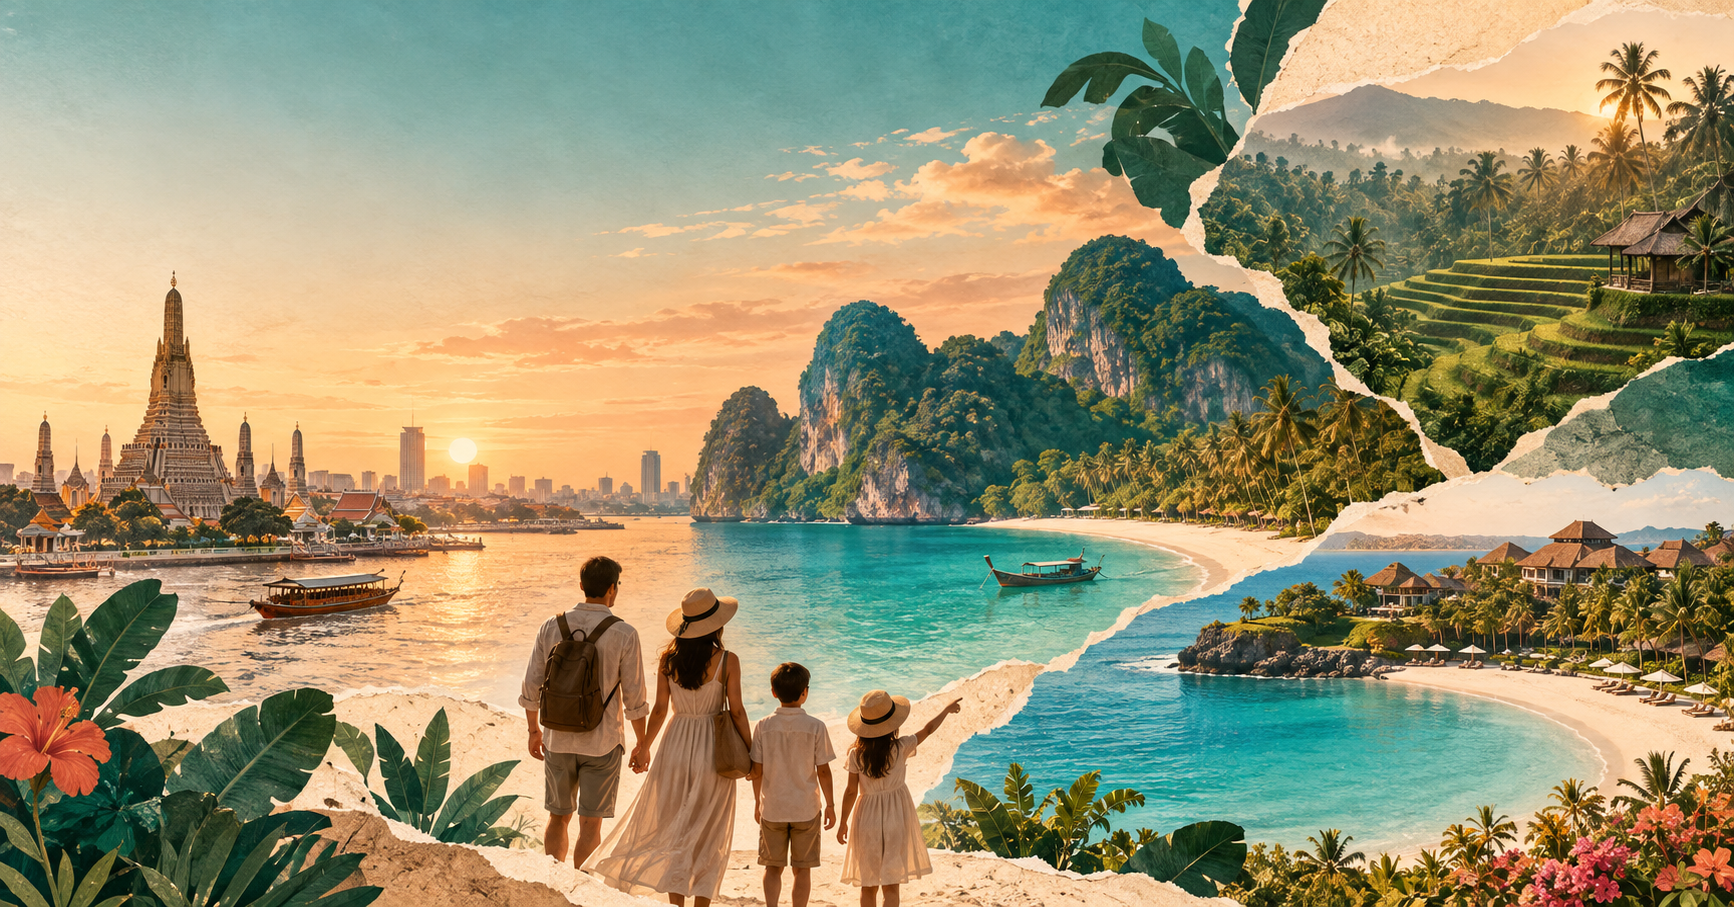
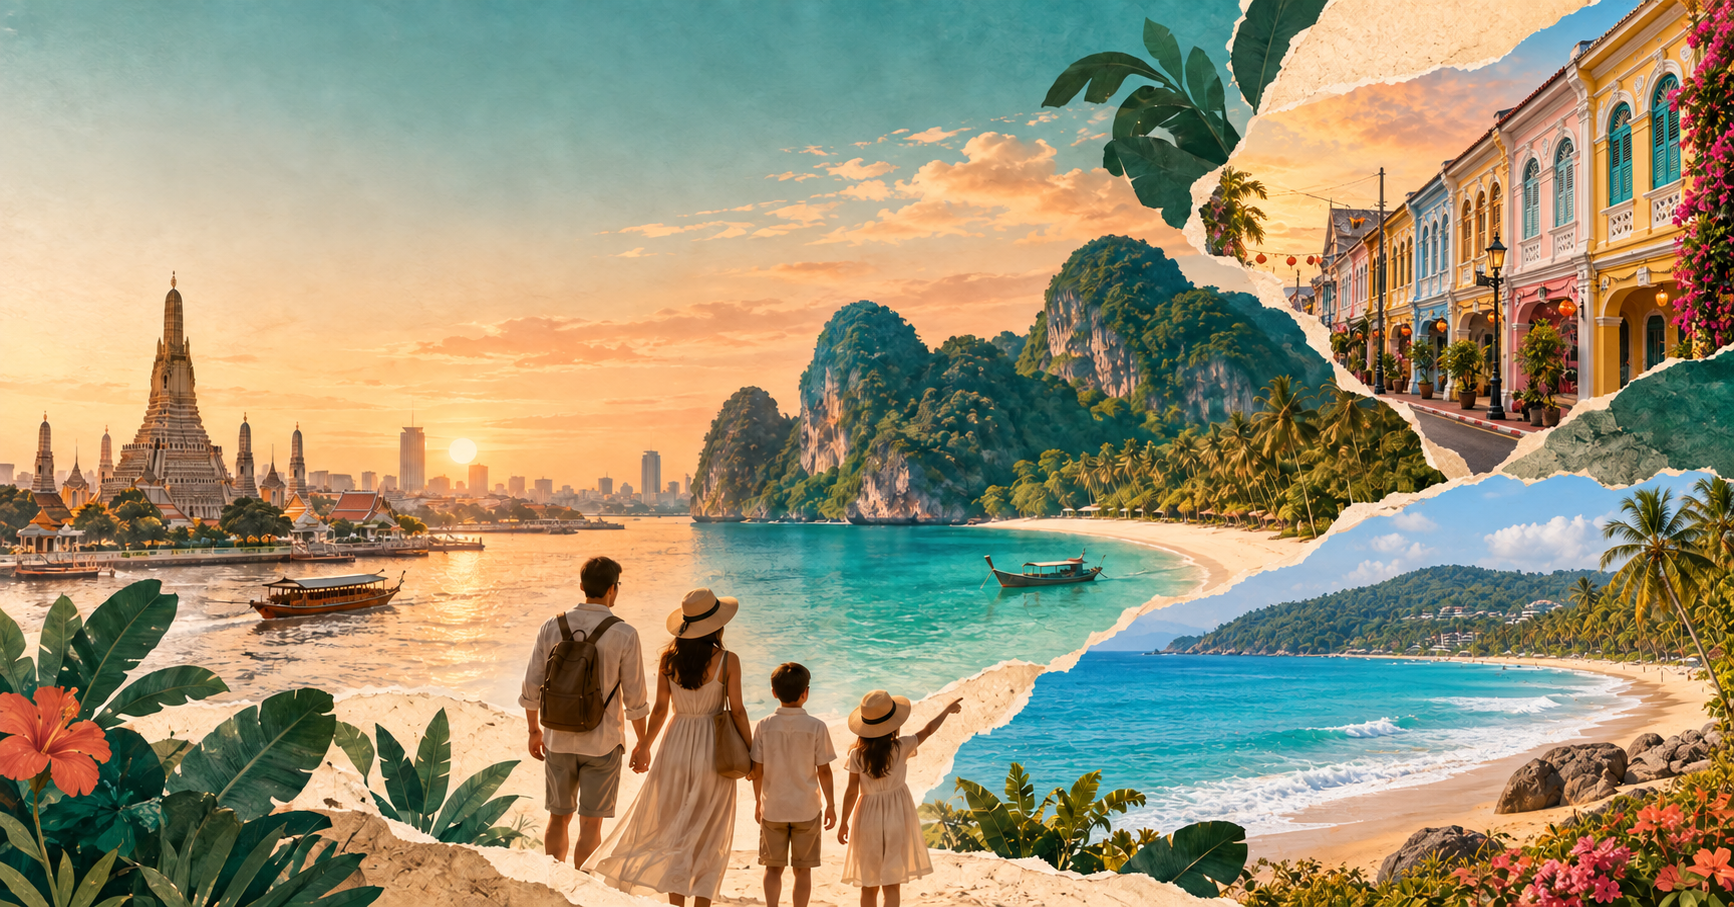
固定曼谷普吉方案并删除备选

diff --git a/site/app/page.tsx b/site/app/page.tsx
@@ -12,7 +12,7 @@ type DayPlan = {
 };
 
 type Candidate = {
-  id: "phuket" | "bali";
+  id: "phuket";
   label: string;
   eyebrow: string;
   title: string;
@@ -34,7 +34,7 @@ const initialData: SiteData = {
   candidates: [
     {
       id: "phuket",
-      label: "候选 A",
+      label: "固定方案",
       eyebrow: "THAILAND · CITY + ISLAND",
       title: "曼谷 × 普吉本岛",
       subtitle: "用曼谷满足美食、夜市与城市体验，用普吉完成海滩、SPA与度假酒店。",
@@ -86,59 +86,6 @@ const initialData: SiteData = {
         ] },
       ],
     },
-    {
-      id: "bali",
-      label: "候选 B",
-      eyebrow: "BALI · CULTURE + RESORT",
-      title: "乌布 × 努沙杜瓦",
-      subtitle: "乌布承载自然、人文与SPA，努沙杜瓦提供安静海滩和高质量酒店休闲。",
-      accent: "#2f8f83",
-      weather: "10月通常仍在旱季尾声，路线不依赖离岛快艇",
-      route: ["北京", "乌布", "努沙杜瓦", "上海"],
-      strengths: ["自然、人文、海边结构均衡", "4人包车便利", "酒店度假价值突出"],
-      risks: ["直飞与到达时间待核", "乌布道路拥堵", "住宿升级可能挤压预算"],
-      days: [
-        { day: 1, date: "10.04", title: "抵达巴厘岛 · 前往乌布", route: "北京 → DPS → 乌布", summary: "航班落地后直接前往乌布，只安排入住与休息。", activities: [
-          { time: "航班待核", type: "交通", title: "北京出发", note: "必须核实实际可售航班、行李与抵达时间。" },
-          { time: "抵达后", type: "包车", title: "DPS机场接机", note: "4人优先Van或合适车型，避免临时议价。" },
-          { time: "晚上", type: "住宿", title: "乌布入住", note: "优先安静、车辆可达，避免只看景观忽略交通。" },
-        ] },
-        { day: 2, date: "10.05", title: "乌布慢生活 · 市场 · SPA", route: "乌布中心", summary: "第一整天保持轻松，适应气候和节奏。", activities: [
-          { time: "10:00", type: "文化", title: "乌布中心与市场", note: "步行区控制暴晒，购物不占整天。" },
-          { time: "下午", type: "SPA", title: "全家SPA", note: "优先接送方便、环境安静的正规门店。" },
-          { time: "晚上", type: "美食", title: "当地特色晚餐", note: "需补确认全家对印尼餐饮的兴趣和忌口。" },
-        ] },
-        { day: 3, date: "10.06", title: "寺庙 · 稻田 · 山林", route: "乌布北部包车", summary: "一天只抓两个核心点，车辆负责连接。", activities: [
-          { time: "09:30", type: "包车", title: "乌布北部出发", note: "避免过早，路线按实时交通优化。" },
-          { time: "上午", type: "自然", title: "梯田或短程自然步道", note: "选择短线、少台阶、可随时折返。" },
-          { time: "下午", type: "文化", title: "代表性寺庙", note: "精选一处，不堆叠相似寺庙。" },
-        ] },
-        { day: 4, date: "10.07", title: "乌布弹性自然日", route: "瀑布 / 村落 / 酒店", summary: "根据前一日体力和天气决定，不预设高强度项目。", activities: [
-          { time: "10:00", type: "弹性", title: "自然或村落半日", note: "瀑布需先核实台阶，不安排高难度徒步。" },
-          { time: "下午", type: "休闲", title: "酒店、泳池或咖啡馆", note: "保留完整休息段。" },
-          { time: "晚上", type: "体验", title: "可选文化表演", note: "根据全家兴趣与返程时间决定。" },
-        ] },
-        { day: 5, date: "10.08", title: "转场努沙杜瓦", route: "乌布 → 努沙杜瓦", summary: "只换一次酒店；转场日不叠加重景点。", activities: [
-          { time: "上午", type: "住宿", title: "从容退房", note: "不安排早起打卡。" },
-          { time: "中午", type: "包车", title: "门到门转场", note: "考虑巴厘岛堵车，按实际路况预留时间。" },
-          { time: "下午", type: "海滩", title: "海边酒店入住与休息", note: "升级住宿要购买真实可用的海滩、泳池和景观。" },
-        ] },
-        { day: 6, date: "10.09", title: "努沙杜瓦 · 纯度假日", route: "酒店与海滩", summary: "把酒店当成正式行程，不安排为了打卡而远距离往返。", activities: [
-          { time: "上午", type: "海滩", title: "海滩与泳池", note: "全家自由安排，不设集合压力。" },
-          { time: "下午", type: "休闲", title: "下午茶 / SPA", note: "可按兴趣分组。" },
-          { time: "晚上", type: "美食", title: "海边晚餐", note: "控制返程距离。" },
-        ] },
-        { day: 7, date: "10.10", title: "南部文化或酒店收尾", route: "努沙杜瓦 → 乌鲁瓦图（可选）", summary: "离岛不是必选；南部陆地路线即可完成文化与海景。", activities: [
-          { time: "10:30", type: "弹性", title: "酒店上午或南部包车", note: "按天气与体力决定。" },
-          { time: "傍晚", type: "文化", title: "乌鲁瓦图 / Kecak（可选）", note: "注意台阶、猴群和晚间返程。" },
-          { time: "晚上", type: "整理", title: "行李与返程核对", note: "购物独立记账，确认送机时间。" },
-        ] },
-        { day: 8, date: "10.11", title: "返程上海 · 当天必须抵达", route: "DPS → 上海", summary: "航班是否能在10月11日当天抵沪，是巴厘岛方案的第一道筛选。", activities: [
-          { time: "按航班", type: "交通", title: "努沙杜瓦送机", note: "考虑机场安检与道路缓冲。" },
-          { time: "硬约束", type: "飞行", title: "10月11日当天抵沪", note: "如无可靠组合，巴厘岛候选自动降级。" },
-        ] },
-      ],
-    },
   ],
   checklist: [
     { id: "international", phase: "第一优先", title: "锁定去程国航CA555", note: "10月4日PEK→BKK，09:15—13:35；官网未税¥460起，2件托运行李档¥690，按4成人登录后确认含税总价与库存。" },
@@ -153,7 +100,7 @@ const initialData: SiteData = {
   ],
 };
 
-const STORAGE_KEY = "national-day-family-trip-v5";
+const STORAGE_KEY = "national-day-family-trip-v6";
 const CHECK_KEY = "national-day-family-trip-checks-v1";
 
 export default function Home() {
@@ -266,7 +213,7 @@ export default function Home() {
           <span><b>向海而行</b><small>2026 家庭旅行决策册</small></span>
         </a>
         <nav aria-label="页面导航">
-          <a href="#compare">候选对比</a>
+          <a href="#compare">方案总览</a>
           <a href="#itinerary">逐日行程</a>
           <a href="#booking">核价与预订</a>
           <a href="#budget">预算</a>
@@ -283,10 +230,10 @@ export default function Home() {
         <div className="hero-orbit orbit-two" />
         <div className="hero-copy">
           <p className="kicker">OCT 04 — OCT 11 · 8 DAYS / 7 NIGHTS</p>
-          <h1>一家四口，<br /><em>在两片海之间做选择。</em></h1>
-          <p className="hero-lead">曼谷＋普吉已推进到可下单版本：航班、2间房含税价、五段接送与返程分流都已落到具体选择。</p>
+          <h1>一家四口，<br /><em>曼谷与普吉的八天。</em></h1>
+          <p className="hero-lead">路线已经确定：曼谷3晚＋普吉4晚。航班、2间房、五段接送与1人上海/3人北京返程都已落到具体选择。</p>
           <div className="hero-buttons">
-            <a className="primary-cta" href="#compare">开始比较 <span>↘</span></a>
+            <a className="primary-cta" href="#compare">查看固定方案 <span>↘</span></a>
             <a className="text-cta" href="#profile">查看家庭画像</a>
           </div>
         </div>
@@ -331,10 +278,10 @@ export default function Home() {
       <section className="comparison" id="compare">
         <div className="section-shell">
           <div className="section-heading light-heading">
-            <div><p className="section-index">02 · TWO EQUAL CANDIDATES</p><h2>两条路线，<br />同一把尺子。</h2></div>
-            <p>1人必须在10月11日当天抵沪；另外3人由普吉乘国航直飞北京。再比较航班、住宿、天气与不出海时的完整度。</p>
+            <div><p className="section-index">02 · FINAL ROUTE</p><h2>方案已定，<br />接下来只执行。</h2></div>
+            <p>唯一方案为曼谷＋普吉本岛：4人从北京出发，返程1人于10月11日当天抵沪，另外3人乘国航直飞北京。</p>
           </div>
-          <div className="candidate-grid">
+          <div className="candidate-grid fixed-grid">
             {data.candidates.map((item, index) => (
               <article className={`candidate-card candidate-${item.id}`} key={item.id} style={{ "--accent": item.accent } as CSSProperties}>
                 <div className="candidate-number">0{index + 1}</div>
@@ -349,7 +296,7 @@ export default function Home() {
                   <div><h4>需要验证</h4>{item.risks.map(text => <p key={text}>— {text}</p>)}</div>
                 </div>
                 <div className="weather-note"><span>季节判断</span>{item.weather}</div>
-                <button onClick={() => chooseCandidate(item.id)}>查看这条逐日路线 <span>↘</span></button>
+                <button onClick={() => chooseCandidate(item.id)}>查看逐日安排 <span>↘</span></button>
               </article>
             ))}
           </div>
@@ -362,14 +309,7 @@ export default function Home() {
       <section className="itinerary section-shell" id="itinerary">
         <div className="section-heading compact-heading">
           <div><p className="section-index">03 · DAY BY DAY</p><h2>{candidate.title}<br />8天草案</h2></div>
-          <p>这是可编辑的规划骨架，不把尚未核实的航班、价格和政策写成事实。</p>
-        </div>
-        <div className="route-selector" role="tablist" aria-label="选择候选路线">
-          {data.candidates.map(item => (
-            <button role="tab" aria-selected={candidateId === item.id} className={candidateId === item.id ? "active" : ""} key={item.id} onClick={() => { setCandidateId(item.id); setDayIndex(0); }}>
-              <span style={{ background: item.accent }} />{item.title}
-            </button>
-          ))}
+          <p>这是已经确认的8天主行程；价格仍以付款页为准，天气只影响当日活动，不再改变目的地。</p>
         </div>
         <div className="day-tabs" role="tablist" aria-label="选择日期">
           {candidate.days.map((item, index) => (

diff --git a/site/app/globals.css b/site/app/globals.css
@@ -137,8 +137,8 @@ button:focus-visible, a:focus-visible, textarea:focus-visible, label:focus-withi
 .people-strip p { margin: 0; font-size: 13px; color: rgba(255,255,255,.66); }
 
 .candidate-grid { display: grid; grid-template-columns: 1fr 1fr; gap: 22px; }
+.candidate-grid.fixed-grid { grid-template-columns: minmax(0, 820px); }
 .candidate-card { position: relative; overflow: hidden; padding: 38px; border-radius: 30px; color: #fff; background: var(--ink); box-shadow: var(--shadow); }
-.candidate-bali { background: #665a40; }
 .candidate-number { position: absolute; right: 28px; top: 16px; color: rgba(255,255,255,.1); font-family: "Noto Serif SC", serif; font-size: 105px; line-height: 1; }
 .candidate-card .eyebrow { margin: 0 0 14px; color: var(--accent); }
 .candidate-card h3 { margin: 0; max-width: 75%; font-family: "Noto Serif SC", serif; font-size: 35px; line-height: 1.15; }
@@ -179,7 +179,6 @@ button:focus-visible, a:focus-visible, textarea:focus-visible, label:focus-withi
 .timeline-card h4 { margin: 1px 0 3px; }
 .timeline-card p { margin: 0; color: var(--muted); font-size: 13px; }
 .route-map { position: relative; overflow: hidden; min-height: 560px; border-radius: 28px; background: #cae0d9; }
-.map-bali { background: #d8d2bb; }
 .route-map::before, .route-map::after { content: ""; position: absolute; border: 1px solid rgba(23,49,46,.12); border-radius: 46% 54% 60% 40%; }
 .route-map::before { width: 420px; height: 310px; left: -70px; top: 50px; transform: rotate(22deg); box-shadow: inset 0 0 0 35px rgba(255,255,255,.1), inset 0 0 0 70px rgba(255,255,255,.08); }
 .route-map::after { width: 350px; height: 260px; right: -110px; bottom: 15px; transform: rotate(-12deg); }

diff --git a/site/app/layout.tsx b/site/app/layout.tsx
@@ -9,14 +9,14 @@ export async function generateMetadata(): Promise<Metadata> {
   const imageUrl = `${protocol}://${host}/og.png`;
   return {
     title: "向海而行 · 2026国庆家庭旅行决策册",
-    description: "巴厘岛与曼谷＋普吉本岛并列比较，包含家庭偏好、逐日行程、预算和预订清单。",
+    description: "2026国庆曼谷＋普吉本岛家庭旅行固定方案，包含家庭偏好、逐日行程、预算和预订清单。",
     icons: { icon: "/favicon.svg", shortcut: "/favicon.svg" },
     openGraph: {
       title: "向海而行 · 2026国庆家庭旅行决策册",
-      description: "两条并列候选路线，一起选出最适合全家的国庆旅行。",
+      description: "曼谷3晚＋普吉4晚，一家四口的2026国庆旅行执行方案。",
       type: "website",
       locale: "zh_CN",
-      images: [{ url: imageUrl, width: 1736, height: 907, alt: "曼谷、普吉与巴厘岛家庭旅行拼贴" }],
+      images: [{ url: imageUrl, width: 1736, height: 907, alt: "曼谷与普吉家庭旅行拼贴" }],
     },
     twitter: { card: "summary_large_image", images: [imageUrl] },
   };
